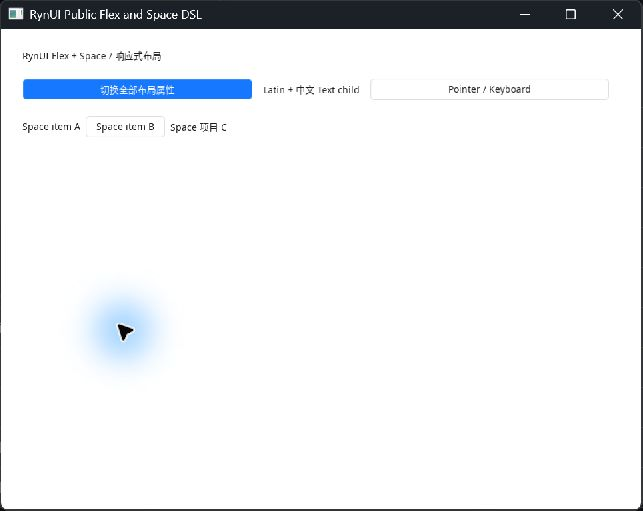
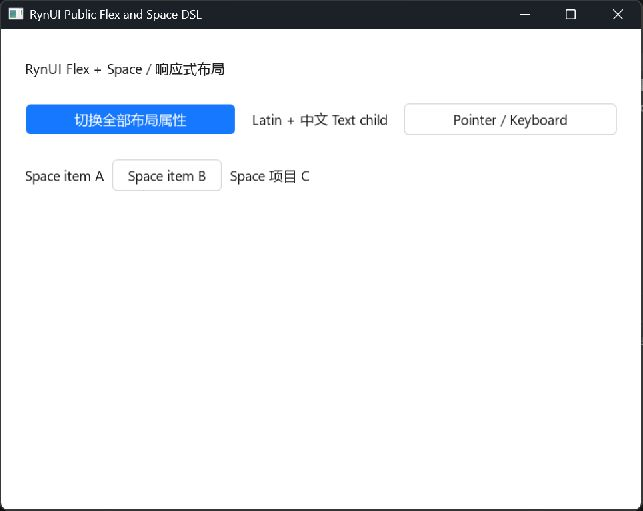
test: validate Windows flex and space layouts

diff --git a/openspec/changes/005-20260827-build-flex-and-space-layout-foundation/tasks.md b/openspec/changes/005-20260827-build-flex-and-space-layout-foundation/tasks.md
@@ -51,9 +51,9 @@
 ## 7. Windows 验收清单
 
 - [x] 7.1 使用 `windows-msvc` preset clean configure，完成 Debug/Release build 与完整 CTest，核对 Ninja Multi-Config、MSVC x64、标准 C++20、BUNDLED 依赖和 D3D12/DXIL 锁定来源，保存 Windows 构建结果
-- [ ] 7.2 在 Windows/MSVC/D3D12/DXIL 真实窗口运行公开 layout 示例，完成窗口宽窄调整、不同系统缩放输出、Button 切换 direction/wrap/justify/align/gap/grow/order 与正常退出；保存 display scale、宽/窄截图、退出码和诊断计数
-- [ ] 7.3 人工核对 Flex/Space 的 horizontal/vertical、wrap、Small/Middle/Large/custom gap、对齐、grow/shrink、order、CJK/Latin、DirectWrite 的 Segoe UI/Microsoft YaHei UI family/source 与 Button 命中位置；运行 Windows evidence passed contract、public dependency、shader/lock/license 与未跟踪依赖检查
-- [ ] 7.4 运行 Windows 完整 CTest、OpenSpec strict validate 与 `git diff --check`；以英文 `test: validate Windows flex and space layouts` 提交并推送 Windows 清单/evidence/截图，核对 remote SHA，不修改 Linux 清单
+- [x] 7.2 在 Windows/MSVC/D3D12/DXIL 真实窗口运行公开 layout 示例，完成窗口宽窄调整、不同系统缩放输出、Button 切换 direction/wrap/justify/align/gap/grow/order 与正常退出；保存 display scale、宽/窄截图、退出码和诊断计数
+- [x] 7.3 人工核对 Flex/Space 的 horizontal/vertical、wrap、Small/Middle/Large/custom gap、对齐、grow/shrink、order、CJK/Latin、DirectWrite 的 Segoe UI/Microsoft YaHei UI family/source 与 Button 命中位置；运行 Windows evidence passed contract、public dependency、shader/lock/license 与未跟踪依赖检查
+- [x] 7.4 运行 Windows 完整 CTest、OpenSpec strict validate 与 `git diff --check`；以英文 `test: validate Windows flex and space layouts` 提交并推送 Windows 清单/evidence/截图，核对 remote SHA，不修改 Linux 清单
 
 ## 8. Change 收口
 

diff --git a/openspec/changes/005-20260827-build-flex-and-space-layout-foundation/evidence/windows-layout-evidence.md b/openspec/changes/005-20260827-build-flex-and-space-layout-foundation/evidence/windows-layout-evidence.md
@@ -1,7 +1,7 @@
 schema_version=1
 change=005-20260827-build-flex-and-space-layout-foundation
 platform=windows
-status=pending
+status=passed
 preset_debug=windows-msvc-debug
 preset_release=windows-msvc-release
 build_system=Ninja Multi-Config
@@ -21,12 +21,12 @@ shadercross_source=e55cf5e31ced6f3d1be5cc6d0c50e99384f9f4ba_locked
 window_system=Win32
 display_scale=1.5
 pixel_density=1
-window_size_wide=pending
-window_size_narrow=pending
-pixel_size_wide=pending
-pixel_size_narrow=pending
-viewport_wide=pending
-viewport_narrow=pending
+window_size_wide=960x720
+window_size_narrow=674x720
+pixel_size_wide=960x720
+pixel_size_narrow=674x720
+viewport_wide=640x480
+viewport_narrow=449x480
 dpi_scale_applied=true
 font_logical_pixel_size=14
 font_raster_pixel_size=21
@@ -41,9 +41,10 @@ screenshot_narrow_path=evidence/windows-layout-narrow-20260827.jpg
 line_count_wide=3
 line_count_narrow=4
 content_runs=1
-prop_updates=14
+prop_updates=28
+activations=4
 component_count=13
-layout_passes=65
+layout_passes=78
 scene_rebuilds=1
 frame_submissions=15
-idle_waits=16148
+idle_waits=9426
